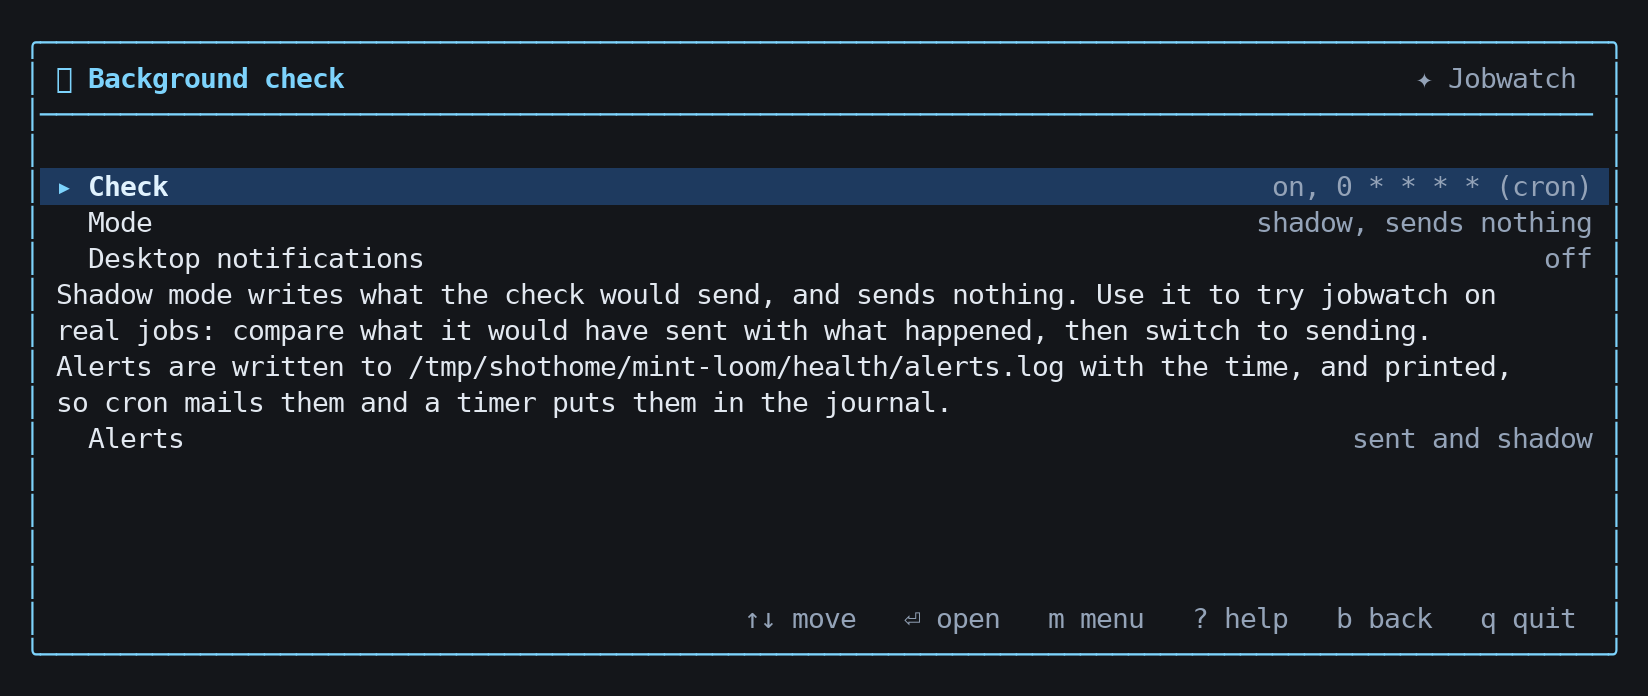
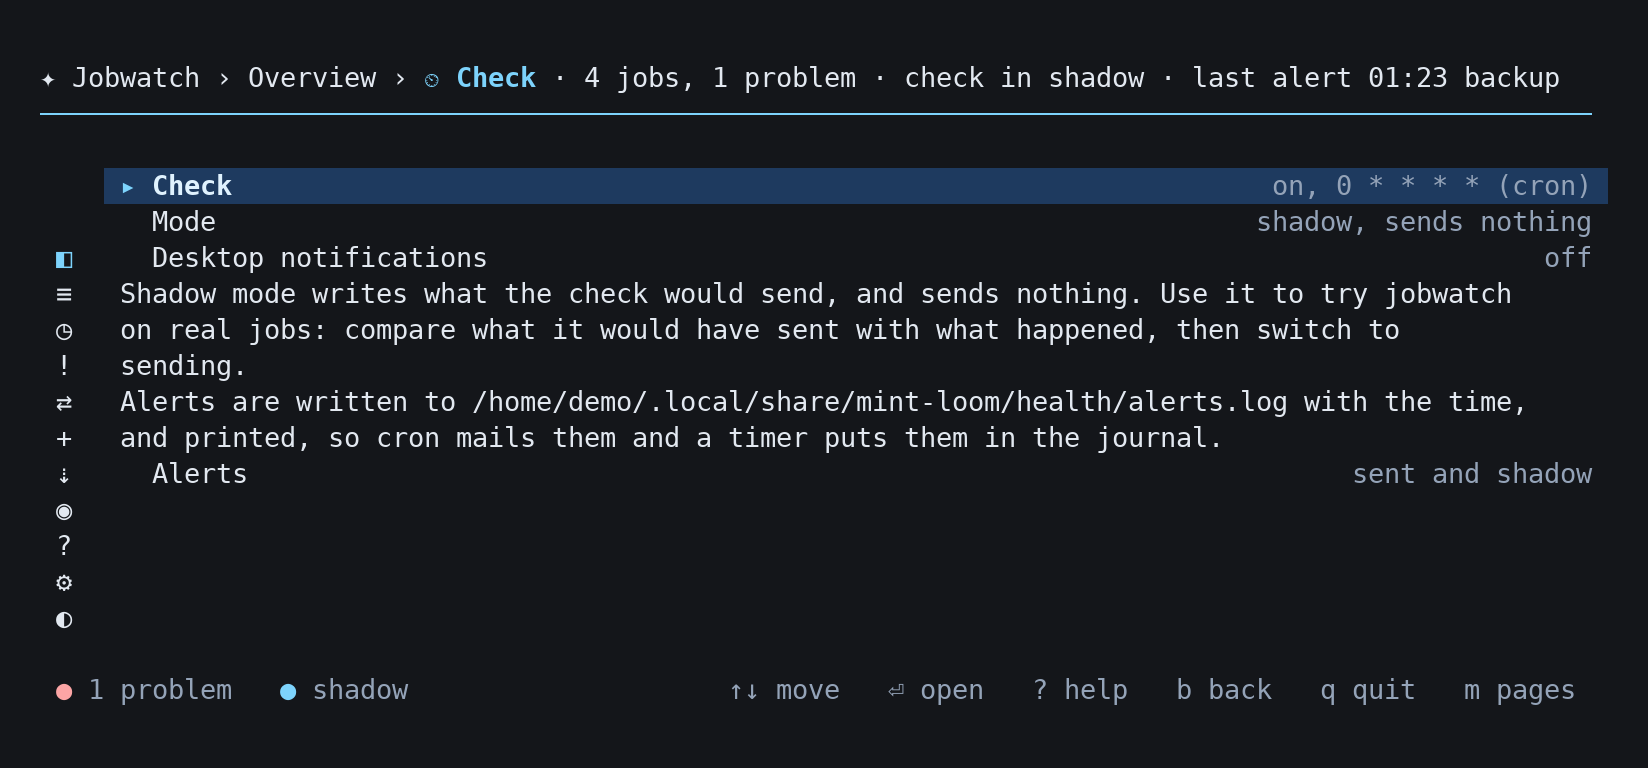
README: new screenshots, corrected claims and known problems
Retake all nine screenshots from the program, with made-up jobs. Describe
the current menu and page rail, say the page keys do not work on the
launch menu, and correct what is said about recorded output, environment
and imported log times. Add a Known problems section and a warning near
the top.

Claude-Session: https://claude.ai/code/session_01TfLMqwSuUj5gwcKSMZz4qo

diff --git a/README.md b/README.md
@@ -8,9 +8,11 @@ A standalone terminal app built with [pmin](https://github.com/CurtisD4q/pmin), 
 
 **Install:** `curl -fsSL https://raw.githubusercontent.com/CurtisD4q/jobwatch/main/install.sh | sh` (Linux and macOS; [more ways below](#install)).
 
-![The menu: every screen grouped under Watch, Set up and Help, each with the key that opens it, and beside it the jobs, the check and the latest alert at a glance](screenshots/menu.png)
+> **Warning: do not put recording in front of a job you depend on yet.** A recorded command does not get most of your environment variables, and only the end of its output is passed on. See [Known problems](#known-problems).
 
-jobwatch opens on its launch menu. On every screen after that the pages run down the left (`m` moves into them), and the top line says where you are and how things stand: the jobs, the check and the latest alert.
+![The launch menu: each page with a line on what it is for, the one thing most worth knowing above them, and how the jobs and the check stand below](screenshots/menu.png)
+
+jobwatch opens on its launch menu. On the pages after that, an icon for each page runs down the left (`m` opens the list), and the top line says where you are and how things stand: the jobs, the check and the latest alert.
 
 ## Screenshots
 
@@ -18,16 +20,16 @@ jobwatch opens on its launch menu. On every screen after that the pages run down
 |---|---|
 | ![The overview: the jobs worst first, today's usual starts, and the background check with its latest alerts](screenshots/overview.png) | ![A job's evidence: why it is overdue and failing, what it said, and its recent runs](screenshots/job.png) |
 | **The overview.** The jobs worst first, today's usual starts, and the background check with its latest alerts. | **The evidence.** Open a job for every finding, with the numbers behind it, what the command said when it failed, and its runs. |
-| ![Day: each job's usual run, its slow tail, and the gap before the next job starts](screenshots/day.png) | ![Add job: your crontab, each line marked recorded, not recorded, or needs the shell](screenshots/addjob.png) |
+| ![Day: each job's usual run across 24 hours, and where the next job starts](screenshots/day.png) | ![Add job: your crontab, each line marked recorded, not recorded, or needs the shell](screenshots/addjob.png) |
 | **Day.** 24 hours across the terminal: the usual run, the slow tail, and how close it comes to the next job. | **Add job.** Your crontab, line by line, and whether each is recorded. |
-| ![The one change to the crontab, before and after, with how to put it back](screenshots/confirm.png) | ![The background check: on, in shadow mode, and where alerts are written](screenshots/check.png) |
-| **One change, shown first.** The line before and after, and how to undo it, before anything is written. | **The background check.** Runs on a schedule; in shadow it writes what it would send and sends nothing. |
-| ![Guide: what jobwatch is for, in five steps](screenshots/guide.png) | |
-| **Guide.** A one-page guide, one key away on every screen. | |
+| ![The one change to the crontab, shown before and after, waiting for Yes or No](screenshots/confirm.png) | ![The background check: on, in shadow mode, and where alerts are written](screenshots/check.png) |
+| **One change, shown first.** The line before and after, before anything is written. | **The background check.** Runs on a schedule; in shadow it writes what it would send and sends nothing. |
+| ![Guide: what jobwatch is for, and the first steps](screenshots/guide.png) | |
+| **Guide.** What jobwatch is for and how to start; `?` opens it from any page. | |
 
-On a narrow terminal the panes stack, so it works over ssh from a phone:
+The screenshots show made-up jobs. On a narrow terminal, text wraps and panes stack, for use over ssh from a phone:
 
-<img src="screenshots/phone.png" alt="The menu at 52 columns: the screens, then the jobs and the check at a glance, stacked" width="320">
+<img src="screenshots/phone.png" alt="The launch menu at 52 columns, with each page's description wrapped under its name" width="320">
 
 ## What it does
 
@@ -70,9 +72,11 @@ After `make install` the cloned folder can be deleted. To clone and fetch the li
 
 ## Getting started
 
-Run `jobwatch`. It opens on the menu; with no jobs yet, the amber line there says where to start, and the overview (`o`) lists the first steps:
+Run `jobwatch`. It opens on the menu; with no jobs yet, the amber line there says where to start. Choose **Overview** and press Enter to see the first steps. The letter keys below work from there, not on the launch menu.
 
-1. **Add job** (`n`). Choose a line of your crontab. jobwatch shows the one change that records its runs, before and after, and makes it when you agree, with undo. The job keeps its schedule, and its output and exit code still reach cron, so cron still mails a failure.
+Read [Known problems](#known-problems) before step 1.
+
+1. **Add job** (`n`). Choose a line of your crontab. jobwatch shows the one change that records its runs, before and after, and makes it when you agree, with undo. The job keeps its schedule and its exit code still reaches cron. Its environment and output do **not** yet come through unchanged.
 2. **Import** (`i`). Read a timer's service from the journal (yours or the system's), or an rsync, rclone or cron log.
 3. **Turn on the background check, in shadow** (`c`). Leave it a week or two and compare what it would have sent with what really happened, then switch it to sending.
 4. **Read the overview** (`o`). Missed and failed runs show at once. Slowing down, running into the next job and a step to a new level need some runs first, and say how sure they are.
@@ -84,15 +88,17 @@ You can also record a job by hand: put `jobwatch record NAME --` in front of the
 30 2 * * *  /usr/local/bin/jobwatch record nightly-backup -- restic backup /data
 ```
 
+For now, this works only if the command needs no extra environment variables. This example would not get `RESTIC_REPOSITORY` or `RESTIC_PASSWORD_FILE`. Never redirect or pipe a recorded command's output to keep it as data, such as a database dump: it would be cut short.
+
 Six weeks later the overview says *"Nightly backup takes 31% longer per GB than 6 weeks ago (p = 0.01). The data has hardly changed, so it is slowing down, not growing."* Open it and you see the runs, the trend, and its slowest runs ending four minutes before the 03:00 sync starts. You move the sync by hand.
 
 ## Keys
 
-The same on every screen:
+The same on every page after the launch menu (on the menu itself, use ↑↓ and Enter). Jobs and Respace have no letter of their own: open them from the menu or with `m`.
 
 | Key | Opens |
 |---|---|
-| `m` | The pages down the left: ↑↓ to choose, Enter to open, `m` or Esc to go back |
+| `m` | The list of pages, over the icons on the left: ↑↓ to choose, Enter to open, `m` or Esc to go back |
 | `o` | Overview |
 | `d` | Day |
 | `a` | Alerts |
@@ -145,7 +151,7 @@ Of what a command printed, the last 2,000 characters are kept, with passwords an
 - **Every finding shows its numbers**: the runs used, the test, and a date range rather than a single date.
 - **Weekday and month-end cycles** are modelled before testing for a trend, so a heavy Monday is not reported as a slowdown.
 - **False alarms are controlled across jobs**, so ten jobs tested at 5% do not produce a stream of spurious warnings.
-- **Times are stored in UTC**, so daylight-saving changes do not create fake patterns.
+- **Times are stored in UTC**, so daylight-saving changes do not create fake patterns in recorded runs. Times from rsync, rclone and cron logs are the exception: see [Known problems](#known-problems).
 - **Jobs without end times** (a cron log) are marked lower confidence.
 - **Contention between jobs is always worded as a hint.** Moving one job is the test.
 
@@ -155,8 +161,35 @@ The false-alarm rate and the detection of planted faults are measured against a 
 
 - **It never changes a schedule** and never stops or moves a job. Respace is a suggestion.
 - **The crontab is changed only when you agree**, one line at a time, with the line before and after shown first and an undo. A line that needs the shell (a redirect, a pipe) is not changed; jobwatch says to put it in a script.
-- **Recorded commands run directly, never through a shell**, with their output and exit code passed straight through.
+- **Recorded commands run directly, never through a shell**, and their exit code is passed on. Their environment and output are not passed through unchanged yet.
 - **Reading is read-only.** Import lists timers with `systemctl list-timers` and reads with `journalctl`; neither changes anything.
+
+## Known problems
+
+Found on `main` at commit `7f594c8`.
+
+**Recording** (reproduced)
+
+- A recorded command gets only a few of your environment variables, such as `PATH` and `HOME`, and `LANG` and `LC_ALL` are set to `C`. Variables such as `RESTIC_REPOSITORY`, `BORG_REPO` and `SSH_AUTH_SOCK` are dropped, so a job that works on its own can fail when recorded.
+- Only the end of what a command prints is passed on (about the last 2,000 characters in testing), and its errors come out on standard output. The app's own Add job, confirmation and Guide text still says output reaches cron.
+
+**The background check** (reproduced)
+
+- It exits 1 when any job has a problem, so its own run is recorded as failed. The next check then reports itself as failing, and carries on doing so after your jobs recover.
+- The command-line report lists `jobwatch-check` as one of your jobs, and can warn that another job is nearing it. The screens leave it out.
+
+**Imports and Respace** (reproduced with sample input)
+
+- Journal: a `Type=oneshot` service, usual for a timer, imports no runs. A program that prints a line starting "Finished " can make a failed run count as successful.
+- rsync and rclone: failed runs can count as successful. An rclone log with progress reports can turn one run into several, and an rsync run that stops early can be given the wrong length.
+- Cron logs: lines are not filtered by job. ISO timestamps and `CROND` lines are not read.
+- Respace misses overlaps across midnight, and can get the usual start wrong for a job that starts around midnight.
+
+**From reading the code**
+
+- A journal import that finds no runs still replaces that job's earlier import.
+- Times in rsync, rclone and cron logs are read as UTC, even if the log uses local time.
+- If a desktop notification fails, the check stops before sending the rest or printing its alerts.
 
 ## Not tested here
 
@@ -164,7 +197,7 @@ jobwatch was built in a container without systemd, a running cron daemon or a de
 
 ## Accessibility: where it stands
 
-Built in: plain words throughout, state always written out (never colour alone), the same keys on every screen, keyboard and mouse, Emacs and vim key styles, and layouts that stack on a narrow terminal.
+Built in: plain words throughout, state always written out (never colour alone), the same keys on every page after the launch menu, keyboard and mouse, Emacs and vim key styles, and layouts that stack on a narrow terminal.
 
 Not yet done: it has **not been tested with a screen reader or braille display**, or with people who have learning disabilities. A full-screen interface that redraws in place is hard for screen readers; until there is a plain mode, `jobwatch report` gives the same states as text. Treat the above as groundwork, not a claim.
 

diff --git a/screenshots/README.md b/screenshots/README.md
@@ -1,26 +1,37 @@
 # Screenshots
 
 The images the main README shows, made from the program itself and not drawn
-by hand. They show seeded runs, not anyone's real jobs.
+by hand. They show seeded runs, not anyone's real jobs. These were taken from
+a build of `main` at `7f594c8` with the fix for text wrapping beside the icon
+rail.
 
-1. Seed a history in a folder of its own, with `XDG_DATA_HOME` pointing at
-   its parent, so jobwatch reads it as the default (`jobwatch import`, or a
-   few recorded runs), and install jobwatch where a crontab would call it
-   (`/usr/local/bin/jobwatch`), so the crontab change shows a real path.
-2. Run jobwatch in a pseudo-terminal 100 columns wide (52 for `phone.png`),
+1. Seed a history under a `HOME` made for the purpose (`/home/demo`), in
+   `.local/share/mint-loom`, with `XDG_DATA_HOME` unset: the scheduled check
+   is not passed that variable. Use `jobwatch import` and run records in
+   Loom's format. Install jobwatch where a crontab would call it
+   (`/usr/local/bin/jobwatch`), so the crontab change shows a real path. A
+   stand-in `crontab` command keeps the real one untouched.
+2. Turn the check on and set it to shadow. Run it once with
+   `jobwatch --loom-run jobwatch-check` while every job is healthy, then add
+   the failed run and use `jobwatch check --shadow` for the alerts. The order
+   matters while a check that finds a problem is recorded as failed.
+3. Open jobwatch once and quit, to get past the first-run quick start.
+4. Run jobwatch in a pseudo-terminal 100 columns wide (52 for `phone.png`),
    and read the screen with a terminal emulator library such as pyte.
-3. Draw each cell in DejaVu Sans Mono on `#14161a`, in its own colour, at
-   twice the size. Block elements (`▁`…`█`, `▓`) are drawn as rectangles,
-   since a font's glyphs for them do not always fill the cell.
+5. Draw each cell in DejaVu Sans Mono on `#14161a`, in its own colour, at
+   twice the size (16 × 36 pixels a cell, with a 24-pixel margin). Block
+   elements, `▓` and box lines are drawn as shapes, since a font's glyphs for
+   them do not always fill the cell. A glyph DejaVu Sans Mono lacks comes
+   from another font (`⏲` from FreeSerif).
 
 | File | Screen | Size |
 |---|---|---|
-| `menu.png` | Menu, the first screen | 100 × 26 |
-| `phone.png` | Menu | 52 × 44 |
+| `menu.png` | Menu, the first screen | 100 × 40 |
+| `phone.png` | Menu | 52 × 42 |
 | `overview.png` | Overview | 100 × 26 |
-| `job.png` | a job (Enter on the first) | 100 × 40 |
-| `day.png` | The day | 100 × 18 |
-| `addjob.png` | Add a job | 100 × 18 |
-| `confirm.png` | Add a job, Enter on a line | 100 × 22 |
-| `check.png` | Background check | 100 × 18 |
-| `guide.png` | How this works | 100 × 30 |
+| `job.png` | a job (Enter on the first) | 100 × 44 |
+| `day.png` | Day | 100 × 20 |
+| `addjob.png` | Add job | 100 × 20 |
+| `confirm.png` | Add job, a line not yet recorded, after naming it | 100 × 22 |
+| `check.png` | Check | 100 × 20 |
+| `guide.png` | Guide | 100 × 30 |
